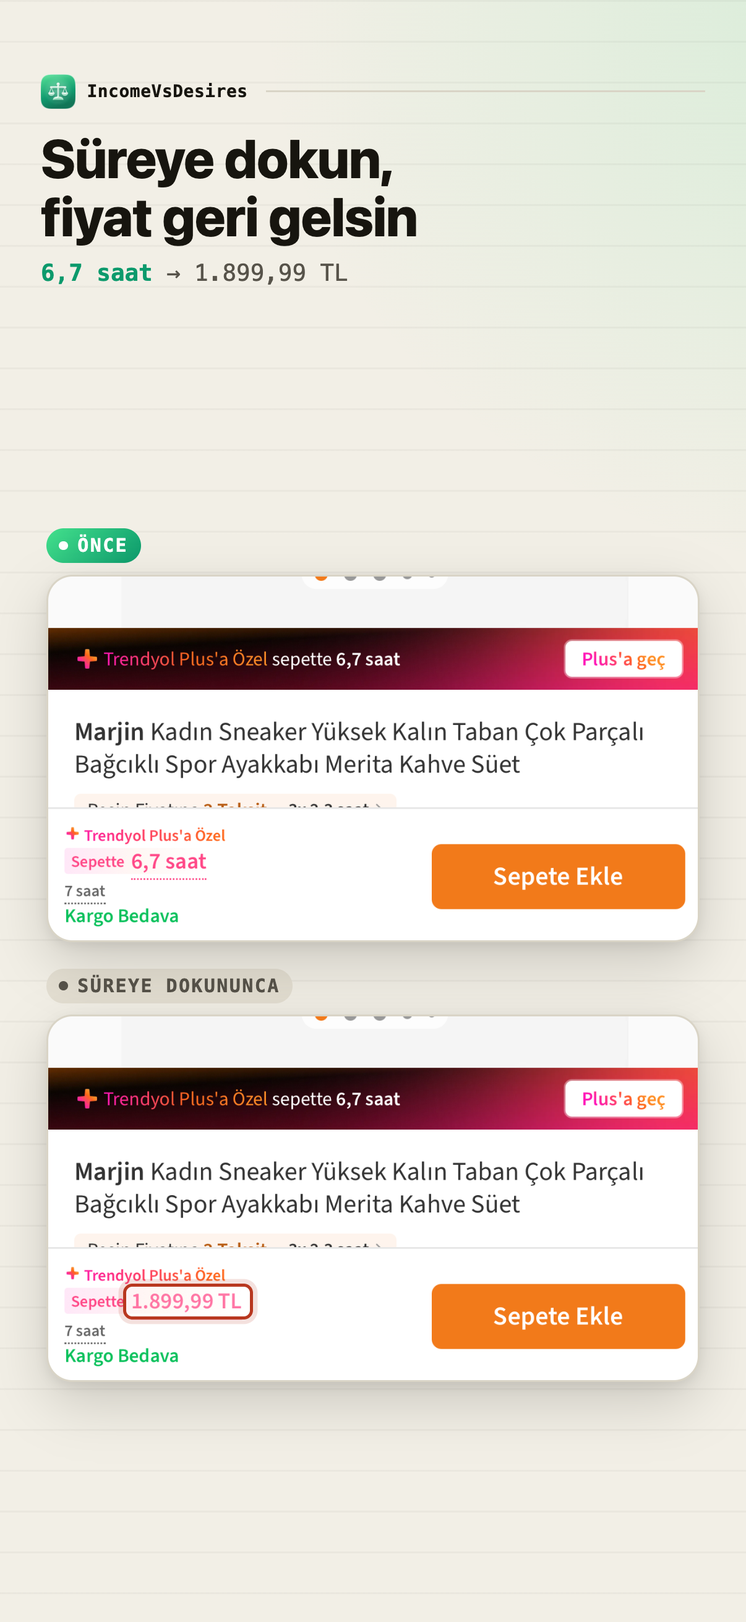
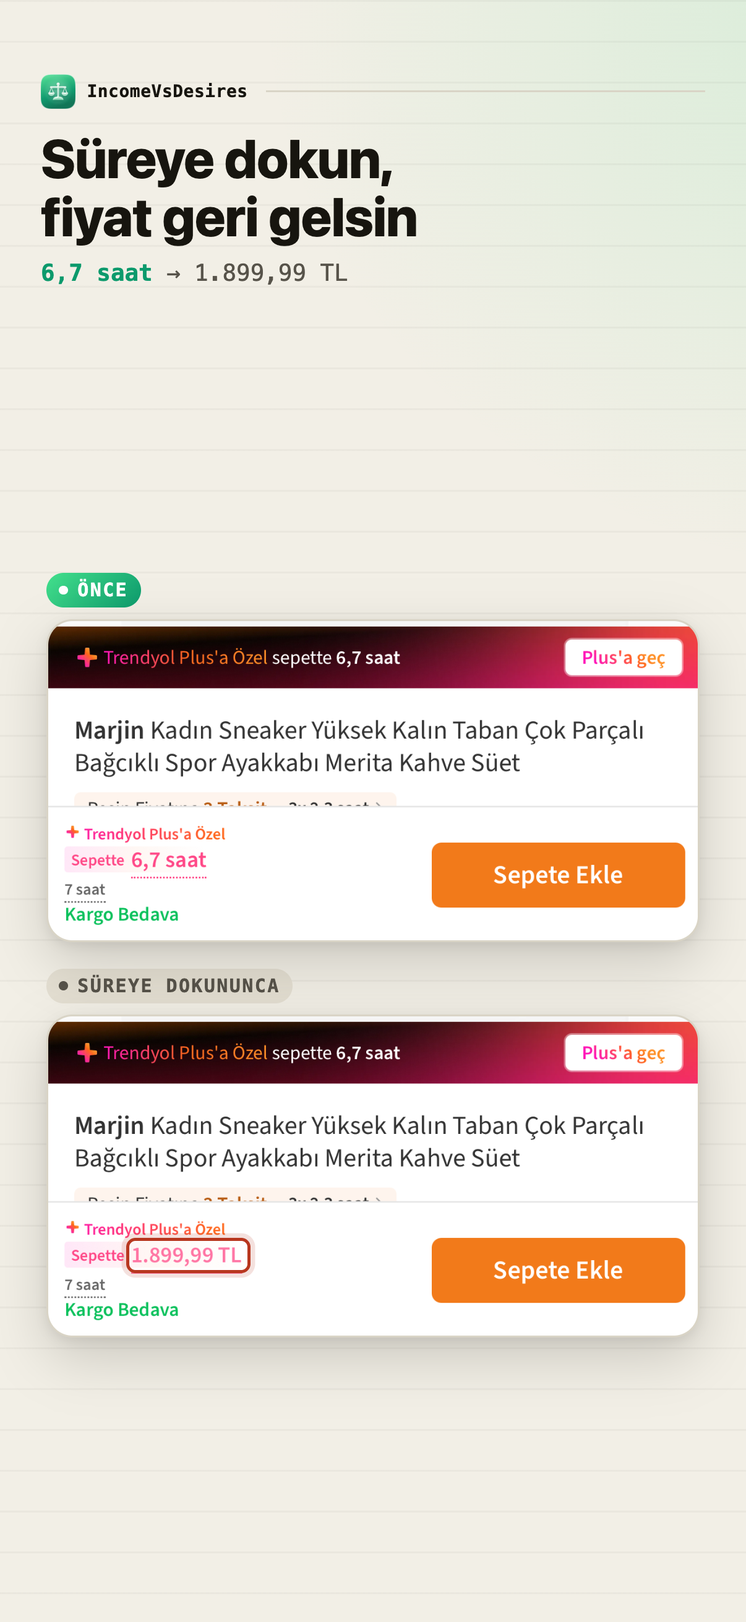
feat(store): App Store iPad TR/EN kareleri gerçek Safari'den; iPhone 03 TR kırpım ince ayar; ekran-goruntuleri.md + README §3 kaynak/kanıt tabloları

diff --git a/store/_src/screens/scenes.js b/store/_src/screens/scenes.js
@@ -111,7 +111,7 @@ const SAFC = {
     tr: {
       s1: [0, 600, 1206, 2022], s1W: 352,
       s2: [[30, 1100, 1150, 770]], s2W: 352,
-      s3: [0, 1650, 1206, 680], s3W: 352, s3mark: [138, 493, 240, 66],
+      s3: [0, 1735, 1206, 595], s3W: 352, s3mark: [144, 408, 230, 66],
       s4: [0, 190, 900, 2030], s4W: 270,
       s5: [0, 470, 1206, 1800], s5W: 300
     },
@@ -126,16 +126,16 @@ const SAFC = {
   ipad: {
     tr: {
       s1: [540, 655, 1424, 1530], s1W: 820,
-      s2: [[550, 655, 1410, 255], [540, 1700, 1424, 480]], s2W: 820,
-      s3: [540, 1500, 1424, 690], s3W: 904, s3mark: [10, 594, 160, 58],
-      s4: [880, 60, 660, 1340], s4W: 460,
+      s2: [[550, 655, 1410, 255], [540, 1700, 1424, 480]], s2W: 780,
+      s3: [540, 1500, 1424, 690], s3W: 904, s3mark: [12, 606, 150, 48],
+      s4: [914, 60, 614, 1340], s4W: 430,
       s5: [130, 535, 1800, 1465], s5W: 900
     },
     en: {
       s1: [570, 900, 1440, 1852], s1W: 760,
-      s2: [[560, 1300, 1460, 520], [560, 2540, 1460, 212]], s2W: 840,
-      s3: [560, 1300, 1460, 520], s3W: 904, s3mark: [486, 370, 90, 64],
-      s4: [880, 60, 660, 1340], s4W: 460,
+      s2: [[560, 1200, 1460, 620], [560, 2548, 1460, 204]], s2W: 780,
+      s3: [560, 1080, 1460, 740], s3W: 904, s3mark: [486, 590, 90, 64],
+      s4: [914, 60, 614, 1340], s4W: 430,
       s5: [130, 590, 1800, 1465], s5W: 900
     }
   }

diff --git a/store/app-store/shared/ekran-goruntuleri.md b/store/app-store/shared/ekran-goruntuleri.md
@@ -1,6 +1,6 @@
 # App Store ekran görüntüleri (TR birincil, EN yerelleştirme)
 
-Durum 28.10.2026 (ImageArtist). Boyutlar Apple "Screenshot specifications"
+Durum 29.10.2026 (ImageArtist). Boyutlar Apple "Screenshot specifications"
 (https://developer.apple.com/help/app-store-connect/reference/app-information/screenshot-specifications)
 ve PM'in 28.10 doğrulaması:
 
@@ -11,99 +11,143 @@ ve PM'in 28.10 doğrulaması:
 | iPad 13" | zorunlu (uygulama iPad'de çalışıyor) | **2064 × 2752**, 5 kare/dil |
 | Mac (16:10) | zorunlu | **2880 × 1800**, 5 kare/dil |
 
-Hepsi PNG, alfa yok (`sips -g hasAlpha` → `no`, Pillow modu `RGB`).
+Hepsi PNG, alfa yok (`sips -g hasAlpha` → `no`, Pillow modu `RGB`). Safari ham kareleri
+(simctl, RGBA) şablonda kırpılıp `store/_src/flatten.py` ile RGB'ye düzleştirildi.
 
 ## Kaynak ve dürüstlük — ÖNEMLİ
 
-**Kaynak: Chrome görüntü alanı, Safari'de gerçek çekim gelince değiştirilecek.**
-Tüm kareler `store/raw/<dil>/<cihaz>/` altındaki gerçek ham çekimlerin
-kırpımıdır (Google Chrome 156 headless, gerçek eklenti, gerçek site; iPhone/iPad
-için iOS Safari UA + dokunma emülasyonu — sitenin mobil düzeni Chrome'da çizildi).
-Ayrıntı: [`../../raw/README.md`](../../raw/README.md).
+| Set | Kaynak |
+|---|---|
+| iPhone TR + EN | **gerçek Safari (iOS 27 simülatör, iPhone 18 Pro)**, gerçek uzantı, gerçek site — `store/raw-safari/iphone/<dil>/` |
+| iPad TR + EN | **gerçek Safari (iOS 27 simülatör, iPad Pro 13" M5)**, gerçek uzantı, gerçek site — `store/raw-safari/ipad/<dil>/` |
+| Mac TR + EN | **Chrome kaynaklı, macOS Safari çekimi bekliyor** — `store/raw/<dil>/desktop/` (Chrome görüntü alanı; Chrome öğesi yok) |
 
-- Tarayıcı çerçevesi yok; ham karelerde zaten yoktu. Çerçeve **tarafsız cihaz
-  kenarı** (koyu yuvarlak köşe) ya da ince kart; "Safari" çerçevesi çizilmedi.
-- Rehber 2.3.10: hiçbir karede "Chrome" yazısı, Chrome arayüzü, Google logosu yok.
-- Rehber 2.3.7: fiyat/"ücretsiz" ifadesi yok. Görünen fiyatlar sitenin ürün
-  fiyatları (eklentinin çevirdiği/geri koyduğu değerler), uygulamanın fiyatı değil.
-- Rehber 2.3.9: site logoları kırpım dışında (Trendyol üst bandı, Marjin satıcı
-  logosu, IKEA başlığı görünmüyor). Ürün adlarında marka metni kalıyor (adidas,
-  Riccon, "IKEA Family price" etiketi) — küçük, ürün kartının parçası.
+Derleme (ayrıntı [`../../raw-safari/README.md`](../../raw-safari/README.md)):
+- `264072b` (28.10 21:04): iPhone TR 01–05, iPhone EN 01–03, iPad TR 01–05.
+- `9f9b9e8` (29.10 00:18, bulgu A/B düzeltmeli): iPhone EN 04–05, iPad EN 01–05.
+- TR karelerde hata A görünmez (₺). A düzeltmesinden önceki EN popup kareleri
+  (`$227.278.41`, `raw-safari/_kanit/*-hata-A-*`) **kullanılmadı**; `_kanit/` altındaki
+  hiçbir dosya mağaza karesi değildir.
+
+Kurallar:
+- Her kare = başlık bandı + aynı ham karenin kırpımı (yakınlaştırma ≤ 1,5×). Arayüz
+  çizilmedi, rakam üretilmedi, rötuş yok. Kırpımlar `store/_src/screens/scenes.js`
+  (`SAFC`, ham piksel).
+- Apple kendi platformu olduğu için Safari öğeleri (iPhone alttaki adres çubuğu,
+  iPad adres çubuğu + uzantı popover'ı) yer yer görünür; odak eklentidir.
+- Rehber 2.3.10: hiçbir karede "Chrome" yazısı/arayüzü yok (Apple seti Safari'den).
+- Rehber 2.3.7: fiyat/"ücretsiz" ifadesi yok. Görünen fiyatlar sitenin ürün fiyatları.
+- Rehber 2.3.9: site logoları kırpım dışında — Trendyol ve Zappos üst bandı, Marjin
+  satıcı afişi/logosu, iPad sekme çubuğu (site favicon'ları, "Zappos" sekme başlığı),
+  iPad durum çubuğundaki "◀ Ayarlar" dönüş bağlantısı. Kalan: adres çubuğundaki alan
+  adı (`trendyol.com`, `zappos.com`, düz metin), ürün adlarındaki marka metni
+  (adidas, Nike, SKECHERS…) ve ürün fotoğrafındaki marka işaretleri — ürün kartının parçası.
 - Rehber 2.3.3: her kare eklentiyi kullanımda gösteriyor (açılış ekranı yok).
-- Örnek maaş gerçek kişi verisi değil: TR 50.000 TL · 8 saat · 22 gün; EN
-  $5,000 · 8 h · 22 days. Başlıklardaki her rakam ham karenin `meta.json`
-  çiplerinden okundu.
-- Ayar paneli (04): `raw/<dil>/iphone/04-ayar-paneli.png` — gerçek `popup.html`,
-  gerçek popup genişliği (300 CSS px) @3x; Mac ve iPad'de de bu kare (daha keskin).
-- Yakınlaştırma: iPad TR 01'de aynı ham karenin çip bölgeleri yeşil kenarlı kartla
-  büyütüldü; 02/03'te yalnız çip bölgeleri kırpıldı (PM notu: iPad'de çipler küçük).
-  Kırmızı çerçeve (03) tıklanan çipi işaretler; arayüze ait değildir.
+- Örnek maaş gerçek kişi verisi değil: TR 50.000 TL · 8 saat · 22 gün (₺284,09/sa);
+  EN $5,000 · 8 h · 22 days ($28.41/sa). Gider: Kira 18.000 TRY / Rent $1,500.
+- Başlıklardaki her rakam ilgili ham karede görüldü; kanıt satırları aşağıda.
+- "Bir daha dokun, yine süre" alt yazısı Apple setinden **çıkarıldı**: Zappos'ta fiyat
+  modundaki çipe 2. dokunuş ürün sayfasına gidiyor (bulgu H, `9f9b9e8`).
+- Kırmızı çerçeve (03) dokunulan çipi işaretler; arayüze ait değildir.
 - Dokunmatik cihazlarda başlık "dokun / tap", Mac'te "tıkla / click".
 
-Yeniden üretme: `bash store/_src/render.sh mac|iphone|ipad` (şablon
-`store/_src/screens/`, kırpımlar `scenes.js`).
+Yeniden üretme: `bash store/_src/render.sh iphone|ipad|mac` (şablon `store/_src/screens/`).
 
-Eski host app açılış kareleri (yalnız açılış ekranı, Rehber 2.3.3'ü
-karşılamıyordu) `store/arsiv/apple-hostapp-acilis/` altına taşındı.
+Arşiv: Chrome kaynaklı eski iPhone/iPad kareleri
+`store/arsiv/apple-chrome-kaynakli-2026-10-28/{tr,en}/{iphone,ipad}/` (`git mv`);
+eski host app açılış kareleri `store/arsiv/apple-hostapp-acilis/`.
+
+## Başlık rakamlarının kanıtı
+
+| Set | Başlık rakamı | Görüldüğü ham kare |
+|---|---|---|
+| TR iPhone 01 | 50.000 TL · 8 saat · 22 gün | `raw-safari/iphone/tr/04-popup.png` |
+| TR iPhone 01 | 8.149 TL → 3,6 gün | `02-eklenti-kapali.png` (adidas, 8.149 TL) → `01-eklenti-acik.png` (3,6 gün) |
+| TR iPhone 02 | 711,56 TL → 2,5 saat · 690,21 TL → 2,4 saat | `02` (pasyone 711,56 TL; Plus ile 690,21 TL) → `01` (2,5 saat; Plus ile 2,4 saat) |
+| TR iPhone 03 | 6,7 saat → 1.899,99 TL | `03a-cip-dokunmadan-once.png` (Sepette 6,7 saat) → `03-cipe-dokunuldu.png` (Sepette 1.899,99 TL) |
+| TR iPhone 04 | ₺284,09 · ₺2.272,73 | `04-popup.png` |
+| TR iPhone 05 | Kira 7,9 gün · sana kalan 14 gün · 22 gün | `05-giderler-halka.png` |
+| TR iPad 01 | 50.000 TL · 8 · 22 | `raw-safari/ipad/tr/04-popup.png` |
+| TR iPad 01 | 921,89 TL → 3,2 saat | `02` (Dark Seer 921,89 TL) → `01` (3,2 saat) |
+| TR iPad 02 | 1.899,99 TL → 6,7 saat · 1.197,82 TL → 4,2 saat | `02` (Marjin ×3 1.899,99 TL; McDark 1.197,82 TL) → `01` (6,7 saat; 4,2 saat) |
+| TR iPad 03 | 3,2 saat → 921,89 TL | `03a` → `03` (Dark Seer, listede) |
+| TR iPad 04 | ₺284,09 · ₺2.272,73 | `04-popup.png` (popover) |
+| TR iPad 05 | 7,9 gün · 14 gün · 22 gün | `05-giderler-halka.png` |
+| EN iPhone 01 | $5,000 · 8 h · 22 days | `raw-safari/iphone/en/04-popup.png` |
+| EN iPhone 01 | $159.99 → 5.6 hours | `02` (ECCO $159.99) → `01` (5.6 hours) |
+| EN iPhone 02 | $105 → 3.7 hours · $65 → 2.3 hours | `02` (Nike $105, SKECHERS $65) → `01` (3.7 / 2.3 hours) |
+| EN iPhone 03 | 2.3 hours → $65 | `03a` → `03` (SKECHERS Go Run Consistent 3, listede) |
+| EN iPhone 04 | $28.41 · $227.27 | `04-popup.png` (`9f9b9e8`, hata A yok) |
+| EN iPhone 05 | Rent 6.6 days · left for you 15 days · 22-day | `05-giderler-halka.png` (`9f9b9e8`) |
+| EN iPad 01 | $5,000 · 8 · 22 | `raw-safari/ipad/en/04-popup.png` |
+| EN iPad 01 | $159.99 → 5.6 hours | `02` (ECCO Soft 7 $159.99) → `01` (5.6 hours) |
+| EN iPad 02 | $105 → 3.7 hours · $130 → 4.6 hours | `02` (Nike $105, L.L.Bean $130) → `01` (3.7 / 4.6 hours) |
+| EN iPad 03 | 2.3 hours → $65 | `03a` → `03` (SKECHERS Core Track, 1. dokunuş) |
+| EN iPad 04 | $28.41 · $227.27 | `04-popup.png` (popover, `9f9b9e8`) |
+| EN iPad 05 | 6.6 days · 15 days · 22 days | `05-giderler-halka.png` (`9f9b9e8`) |
+
+Sağlama (README): TR 8.149/284,09/8 = 3,59 gün; 711,56/284,09 = 2,50; 921,89/284,09 = 3,25;
+1.197,82/284,09 = 4,22; 1.899,99/284,09 = 6,69. EN 105/28,41 = 3,70; 65/28,41 = 2,29;
+159,99/28,41 = 5,63; 130/28,41 = 4,58.
 
 ## Dosyalar
 
 #### TR · iphone
 
-| Dosya | Piksel · alfa | Ham kaynak | Not |
+| Dosya | Piksel · alfa | Ham kaynak | Kaynak |
 |---|---|---|---|
-| `tr/iphone/01-sayfada-sureler.png` | 1206×2622 · alfa yok | `raw/tr/iphone/01-eklenti-acik.png` | kaynak: Chrome görüntü alanı, Safari'de gerçek çekim gelince değiştirilecek |
-| `tr/iphone/02-oncesi-sonrasi.png` | 1206×2622 · alfa yok | `raw/tr/iphone/02-eklenti-kapali.png` + `raw/tr/iphone/01-eklenti-acik.png` | kaynak: Chrome görüntü alanı, Safari'de gerçek çekim gelince değiştirilecek |
-| `tr/iphone/03-dokun-fiyat-geri.png` | 1206×2622 · alfa yok | `raw/tr/iphone/01-eklenti-acik.png` + `raw/tr/iphone/03-cipe-tiklandi.png` | kaynak: Chrome görüntü alanı, Safari'de gerçek çekim gelince değiştirilecek |
-| `tr/iphone/04-ayar-paneli.png` | 1206×2622 · alfa yok | `raw/tr/iphone/04-ayar-paneli.png` | kaynak: Chrome görüntü alanı, Safari'de gerçek çekim gelince değiştirilecek |
-| `tr/iphone/05-giderler-halka.png` | 1206×2622 · alfa yok | `raw/tr/iphone/05-giderler-halka.png` | kaynak: Chrome görüntü alanı, Safari'de gerçek çekim gelince değiştirilecek |
+| `tr/iphone/01-sayfada-sureler.png` | 1206×2622 · alfa yok | `raw-safari/iphone/tr/01-eklenti-acik.png` | gerçek Safari (iOS 27 simülatör), derleme `264072b` |
+| `tr/iphone/02-oncesi-sonrasi.png` | 1206×2622 · alfa yok | `raw-safari/iphone/tr/02-eklenti-kapali.png` + `…/01-eklenti-acik.png` | gerçek Safari (iOS 27 simülatör), derleme `264072b` |
+| `tr/iphone/03-dokun-fiyat-geri.png` | 1206×2622 · alfa yok | `raw-safari/iphone/tr/03a-cip-dokunmadan-once.png` + `…/03-cipe-dokunuldu.png` | gerçek Safari (iOS 27 simülatör), derleme `264072b` (ürün sayfası) |
+| `tr/iphone/04-ayar-paneli.png` | 1206×2622 · alfa yok | `raw-safari/iphone/tr/04-popup.png` | gerçek Safari (iOS 27 simülatör), derleme `264072b` |
+| `tr/iphone/05-giderler-halka.png` | 1206×2622 · alfa yok | `raw-safari/iphone/tr/05-giderler-halka.png` | gerçek Safari (iOS 27 simülatör), derleme `264072b` |
 
 #### TR · ipad
 
-| Dosya | Piksel · alfa | Ham kaynak | Not |
+| Dosya | Piksel · alfa | Ham kaynak | Kaynak |
 |---|---|---|---|
-| `tr/ipad/01-sayfada-sureler.png` | 2064×2752 · alfa yok | `raw/tr/ipad/01-eklenti-acik.png` | kaynak: Chrome görüntü alanı, Safari'de gerçek çekim gelince değiştirilecek |
-| `tr/ipad/02-oncesi-sonrasi.png` | 2064×2752 · alfa yok | `raw/tr/ipad/02-eklenti-kapali.png` + `raw/tr/ipad/01-eklenti-acik.png` | kaynak: Chrome görüntü alanı, Safari'de gerçek çekim gelince değiştirilecek |
-| `tr/ipad/03-dokun-fiyat-geri.png` | 2064×2752 · alfa yok | `raw/tr/ipad/01-eklenti-acik.png` + `raw/tr/ipad/03-cipe-tiklandi.png` | kaynak: Chrome görüntü alanı, Safari'de gerçek çekim gelince değiştirilecek |
-| `tr/ipad/04-ayar-paneli.png` | 2064×2752 · alfa yok | `raw/tr/iphone/04-ayar-paneli.png` | kaynak: Chrome görüntü alanı, Safari'de gerçek çekim gelince değiştirilecek |
-| `tr/ipad/05-giderler-halka.png` | 2064×2752 · alfa yok | `raw/tr/ipad/05-giderler-halka.png` | kaynak: Chrome görüntü alanı, Safari'de gerçek çekim gelince değiştirilecek |
+| `tr/ipad/01-sayfada-sureler.png` | 2064×2752 · alfa yok | `raw-safari/ipad/tr/01-eklenti-acik.png` | gerçek Safari (iOS 27 simülatör), derleme `264072b` |
+| `tr/ipad/02-oncesi-sonrasi.png` | 2064×2752 · alfa yok | `raw-safari/ipad/tr/02-eklenti-kapali.png` + `…/01-eklenti-acik.png` | gerçek Safari (iOS 27 simülatör), derleme `264072b` |
+| `tr/ipad/03-dokun-fiyat-geri.png` | 2064×2752 · alfa yok | `raw-safari/ipad/tr/03a-cip-dokunmadan-once.png` + `…/03-cipe-dokunuldu.png` | gerçek Safari (iOS 27 simülatör), derleme `264072b` |
+| `tr/ipad/04-ayar-paneli.png` | 2064×2752 · alfa yok | `raw-safari/ipad/tr/04-popup.png` | gerçek Safari (iOS 27 simülatör), derleme `264072b` |
+| `tr/ipad/05-giderler-halka.png` | 2064×2752 · alfa yok | `raw-safari/ipad/tr/05-giderler-halka.png` | gerçek Safari (iOS 27 simülatör), derleme `264072b` |
 
 #### TR · mac
 
-| Dosya | Piksel · alfa | Ham kaynak | Not |
+| Dosya | Piksel · alfa | Ham kaynak | Kaynak |
 |---|---|---|---|
-| `tr/mac/01-sayfada-sureler.png` | 2880×1800 · alfa yok | `raw/tr/desktop/01-eklenti-acik.png` | kaynak: Chrome görüntü alanı, Safari'de gerçek çekim gelince değiştirilecek |
-| `tr/mac/02-oncesi-sonrasi.png` | 2880×1800 · alfa yok | `raw/tr/desktop/02-eklenti-kapali.png` + `raw/tr/desktop/01-eklenti-acik.png` | kaynak: Chrome görüntü alanı, Safari'de gerçek çekim gelince değiştirilecek |
-| `tr/mac/03-tikla-fiyat-geri.png` | 2880×1800 · alfa yok | `raw/tr/desktop/01-eklenti-acik.png` + `raw/tr/desktop/03-cipe-tiklandi.png` | kaynak: Chrome görüntü alanı, Safari'de gerçek çekim gelince değiştirilecek |
-| `tr/mac/04-ayar-paneli.png` | 2880×1800 · alfa yok | `raw/tr/iphone/04-ayar-paneli.png` | kaynak: Chrome görüntü alanı, Safari'de gerçek çekim gelince değiştirilecek |
-| `tr/mac/05-giderler-halka.png` | 2880×1800 · alfa yok | `raw/tr/desktop/05-giderler-halka.png` | kaynak: Chrome görüntü alanı, Safari'de gerçek çekim gelince değiştirilecek |
+| `tr/mac/01-sayfada-sureler.png` | 2880×1800 · alfa yok | `raw/tr/desktop/01-eklenti-acik.png` | Chrome kaynaklı, macOS Safari çekimi bekliyor |
+| `tr/mac/02-oncesi-sonrasi.png` | 2880×1800 · alfa yok | `raw/tr/desktop/02-eklenti-kapali.png` + `raw/tr/desktop/01-eklenti-acik.png` | Chrome kaynaklı, macOS Safari çekimi bekliyor |
+| `tr/mac/03-tikla-fiyat-geri.png` | 2880×1800 · alfa yok | `raw/tr/desktop/01-eklenti-acik.png` + `raw/tr/desktop/03-cipe-tiklandi.png` | Chrome kaynaklı, macOS Safari çekimi bekliyor |
+| `tr/mac/04-ayar-paneli.png` | 2880×1800 · alfa yok | `raw/tr/iphone/04-ayar-paneli.png` | Chrome kaynaklı, macOS Safari çekimi bekliyor |
+| `tr/mac/05-giderler-halka.png` | 2880×1800 · alfa yok | `raw/tr/desktop/05-giderler-halka.png` | Chrome kaynaklı, macOS Safari çekimi bekliyor |
 
 #### EN · iphone
 
-| Dosya | Piksel · alfa | Ham kaynak | Not |
+| Dosya | Piksel · alfa | Ham kaynak | Kaynak |
 |---|---|---|---|
-| `en/iphone/01-hours-on-page.png` | 1206×2622 · alfa yok | `raw/en/iphone/01-eklenti-acik.png` | kaynak: Chrome görüntü alanı, Safari'de gerçek çekim gelince değiştirilecek |
-| `en/iphone/02-before-after.png` | 1206×2622 · alfa yok | `raw/en/iphone/02-eklenti-kapali.png` + `raw/en/iphone/01-eklenti-acik.png` | kaynak: Chrome görüntü alanı, Safari'de gerçek çekim gelince değiştirilecek |
-| `en/iphone/03-tap-for-price.png` | 1206×2622 · alfa yok | `raw/en/iphone/01-eklenti-acik.png` + `raw/en/iphone/03-cipe-tiklandi.png` | kaynak: Chrome görüntü alanı, Safari'de gerçek çekim gelince değiştirilecek |
-| `en/iphone/04-settings-panel.png` | 1206×2622 · alfa yok | `raw/en/iphone/04-ayar-paneli.png` | kaynak: Chrome görüntü alanı, Safari'de gerçek çekim gelince değiştirilecek |
-| `en/iphone/05-expenses-donut.png` | 1206×2622 · alfa yok | `raw/en/iphone/05-giderler-halka.png` | kaynak: Chrome görüntü alanı, Safari'de gerçek çekim gelince değiştirilecek |
+| `en/iphone/01-hours-on-page.png` | 1206×2622 · alfa yok | `raw-safari/iphone/en/01-eklenti-acik.png` | gerçek Safari (iOS 27 simülatör), derleme `264072b` |
+| `en/iphone/02-before-after.png` | 1206×2622 · alfa yok | `raw-safari/iphone/en/02-eklenti-kapali.png` + `…/01-eklenti-acik.png` | gerçek Safari (iOS 27 simülatör), derleme `264072b` |
+| `en/iphone/03-tap-for-price.png` | 1206×2622 · alfa yok | `raw-safari/iphone/en/03a-cip-dokunmadan-once.png` + `…/03-cipe-dokunuldu.png` | gerçek Safari (iOS 27 simülatör), derleme `264072b` |
+| `en/iphone/04-settings-panel.png` | 1206×2622 · alfa yok | `raw-safari/iphone/en/04-popup.png` | gerçek Safari (iOS 27 simülatör), derleme `9f9b9e8` |
+| `en/iphone/05-expenses-donut.png` | 1206×2622 · alfa yok | `raw-safari/iphone/en/05-giderler-halka.png` | gerçek Safari (iOS 27 simülatör), derleme `9f9b9e8` |
 
 #### EN · ipad
 
-| Dosya | Piksel · alfa | Ham kaynak | Not |
+| Dosya | Piksel · alfa | Ham kaynak | Kaynak |
 |---|---|---|---|
-| `en/ipad/01-hours-on-page.png` | 2064×2752 · alfa yok | `raw/en/ipad/01-eklenti-acik.png` | kaynak: Chrome görüntü alanı, Safari'de gerçek çekim gelince değiştirilecek |
-| `en/ipad/02-before-after.png` | 2064×2752 · alfa yok | `raw/en/ipad/02-eklenti-kapali.png` + `raw/en/ipad/01-eklenti-acik.png` | kaynak: Chrome görüntü alanı, Safari'de gerçek çekim gelince değiştirilecek |
-| `en/ipad/03-tap-for-price.png` | 2064×2752 · alfa yok | `raw/en/ipad/01-eklenti-acik.png` + `raw/en/ipad/03-cipe-tiklandi.png` | kaynak: Chrome görüntü alanı, Safari'de gerçek çekim gelince değiştirilecek |
-| `en/ipad/04-settings-panel.png` | 2064×2752 · alfa yok | `raw/en/iphone/04-ayar-paneli.png` | kaynak: Chrome görüntü alanı, Safari'de gerçek çekim gelince değiştirilecek |
-| `en/ipad/05-expenses-donut.png` | 2064×2752 · alfa yok | `raw/en/ipad/05-giderler-halka.png` | kaynak: Chrome görüntü alanı, Safari'de gerçek çekim gelince değiştirilecek |
+| `en/ipad/01-hours-on-page.png` | 2064×2752 · alfa yok | `raw-safari/ipad/en/01-eklenti-acik.png` | gerçek Safari (iOS 27 simülatör), derleme `9f9b9e8` |
+| `en/ipad/02-before-after.png` | 2064×2752 · alfa yok | `raw-safari/ipad/en/02-eklenti-kapali.png` + `…/01-eklenti-acik.png` | gerçek Safari (iOS 27 simülatör), derleme `9f9b9e8` |
+| `en/ipad/03-tap-for-price.png` | 2064×2752 · alfa yok | `raw-safari/ipad/en/03a-cip-dokunmadan-once.png` + `…/03-cipe-dokunuldu.png` | gerçek Safari (iOS 27 simülatör), derleme `9f9b9e8` |
+| `en/ipad/04-settings-panel.png` | 2064×2752 · alfa yok | `raw-safari/ipad/en/04-popup.png` | gerçek Safari (iOS 27 simülatör), derleme `9f9b9e8` |
+| `en/ipad/05-expenses-donut.png` | 2064×2752 · alfa yok | `raw-safari/ipad/en/05-giderler-halka.png` | gerçek Safari (iOS 27 simülatör), derleme `9f9b9e8` |
 
 #### EN · mac
 
-| Dosya | Piksel · alfa | Ham kaynak | Not |
+| Dosya | Piksel · alfa | Ham kaynak | Kaynak |
 |---|---|---|---|
-| `en/mac/01-hours-on-page.png` | 2880×1800 · alfa yok | `raw/en/desktop/01-eklenti-acik.png` | kaynak: Chrome görüntü alanı, Safari'de gerçek çekim gelince değiştirilecek |
-| `en/mac/02-before-after.png` | 2880×1800 · alfa yok | `raw/en/desktop/02-eklenti-kapali.png` + `raw/en/desktop/01-eklenti-acik.png` | kaynak: Chrome görüntü alanı, Safari'de gerçek çekim gelince değiştirilecek |
-| `en/mac/03-click-for-price.png` | 2880×1800 · alfa yok | `raw/en/desktop/01-eklenti-acik.png` + `raw/en/desktop/03-cipe-tiklandi.png` | kaynak: Chrome görüntü alanı, Safari'de gerçek çekim gelince değiştirilecek |
-| `en/mac/04-settings-panel.png` | 2880×1800 · alfa yok | `raw/en/iphone/04-ayar-paneli.png` | kaynak: Chrome görüntü alanı, Safari'de gerçek çekim gelince değiştirilecek |
-| `en/mac/05-expenses-donut.png` | 2880×1800 · alfa yok | `raw/en/desktop/05-giderler-halka.png` | kaynak: Chrome görüntü alanı, Safari'de gerçek çekim gelince değiştirilecek |
+| `en/mac/01-hours-on-page.png` | 2880×1800 · alfa yok | `raw/en/desktop/01-eklenti-acik.png` | Chrome kaynaklı, macOS Safari çekimi bekliyor |
+| `en/mac/02-before-after.png` | 2880×1800 · alfa yok | `raw/en/desktop/02-eklenti-kapali.png` + `raw/en/desktop/01-eklenti-acik.png` | Chrome kaynaklı, macOS Safari çekimi bekliyor |
+| `en/mac/03-click-for-price.png` | 2880×1800 · alfa yok | `raw/en/desktop/01-eklenti-acik.png` + `raw/en/desktop/03-cipe-tiklandi.png` | Chrome kaynaklı, macOS Safari çekimi bekliyor |
+| `en/mac/04-settings-panel.png` | 2880×1800 · alfa yok | `raw/en/iphone/04-ayar-paneli.png` | Chrome kaynaklı, macOS Safari çekimi bekliyor |
+| `en/mac/05-expenses-donut.png` | 2880×1800 · alfa yok | `raw/en/desktop/05-giderler-halka.png` | Chrome kaynaklı, macOS Safari çekimi bekliyor |

diff --git a/store/README.md b/store/README.md
@@ -85,7 +85,7 @@ tüm boyutları üretir. Önizleme: [`shared/ikon-onizleme.png`](shared/ikon-oni
 | `LargeIcon.imageset`, `Resources/Icon.png` (host app penceresi) | **eksik** — eski render; bu görevin yazma alanı dışında |
 | Play / Android / Windows | kapsam dışı (bu ürün için mağaza yok) |
 
-## 3. Mağaza görselleri — hazır (Apple seti Chrome kaynaklı, Safari çekimi bekliyor)
+## 3. Mağaza görselleri — hazır (iPhone/iPad gerçek Safari; Mac Chrome kaynaklı, macOS Safari çekimi bekliyor)
 
 Şablon `store/_src/` (tek komut: `bash store/_src/render.sh`); kontak föyleri
 [`shared/kontak-foyu-tr.jpg`](shared/kontak-foyu-tr.jpg) · [`shared/kontak-foyu-en.jpg`](shared/kontak-foyu-en.jpg).
@@ -95,12 +95,13 @@ tüm boyutları üretir. Önizleme: [`shared/ikon-onizleme.png`](shared/ikon-oni
 | Ham kareler TR + EN, 6 sahne × 3 cihaz (36 PNG) | **hazır** — [`raw/README.md`](raw/README.md) |
 | CWS ekran görüntüleri TR + EN, 5 × 1280×800 | **hazır** — `chrome-web-store/{tr,en}/screenshots/0*.png`; liste [`gorseller.md`](chrome-web-store/shared/gorseller.md) |
 | CWS 440×280, 1400×560 | **hazır** — dilden bağımsız `*-dilsiz.png` **önerilen**; eski TR metinli sürümler yerinde (yüklenmeyecek) |
-| App Store iPhone 1206×2622, iPad 2064×2752, Mac 2880×1800 — TR + EN, 5'er | **hazır (geçici)** — `app-store/{tr,en}/{iphone,ipad,mac}/`; kaynak Chrome görüntü alanı, Chrome öğesi yok; Safari'de gerçek çekim gelince değiştirilecek — [`ekran-goruntuleri.md`](app-store/shared/ekran-goruntuleri.md) |
+| App Store iPhone 1206×2622, iPad 2064×2752 — TR + EN, 5'er | **hazır (29.10)** — `app-store/{tr,en}/{iphone,ipad}/`; kaynak **gerçek Safari (iOS 27 simülatör)** `raw-safari/`, derleme `264072b` / `9f9b9e8` (EN 04–05 ve iPad EN düzeltmeli; hata A'lı kareler kullanılmadı); PNG RGB, alfa yok — [`ekran-goruntuleri.md`](app-store/shared/ekran-goruntuleri.md) |
+| App Store Mac 2880×1800 — TR + EN, 5'er | **hazır (geçici)** — `app-store/{tr,en}/mac/`; Chrome kaynaklı (Chrome öğesi yok), macOS Safari çekimi bekliyor |
 | Safari'de gerçek çekim — iPhone (simülatör) | **gerçek Safari kaynağı hazır** — TR 01…05 + `kayit.mov`, EN 01…05 + `kayit.mov` ([`raw-safari/README.md`](raw-safari/README.md)); EN 04/05/kayıt düzeltmeli derlemeyle (hata A yok); TR 03 ürün sayfasında (eski derlemede listede bulgu B) |
 | Safari'de gerçek çekim — iPad | **gerçek Safari kaynağı hazır** — iPad Pro 13" sim TR 01…05 + `kayit.mov` (38 sn), EN 01…05 (düzeltmeli derleme); **EN kayıt eksik** (kayıtta bulgu H) |
 | Safari'de gerçek çekim — Mac | **eksik** — gerçek Safari kaynağı yok (masaüstü girdisi onay ister; yalnız izin-yok kanıtı `raw-safari/_kanit/mac-*`) |
-| Safari ham kare alfa | simctl PNG'leri `hasAlpha: yes` (opak) — App Store'a girmeden düzleştirilmeli |
-| Eski kareler | `arsiv/chrome-tr-eski-2026-10-28/` (eski CWS TR), `arsiv/apple-hostapp-acilis/` (host app açılışı) |
+| Safari ham kare alfa | simctl PNG'leri `hasAlpha: yes` (opak) — mağaza karelerinde düzleştirildi (`flatten.py`, `hasAlpha: no`); ham kareler olduğu gibi |
+| Eski kareler | `arsiv/chrome-tr-eski-2026-10-28/` (eski CWS TR), `arsiv/apple-hostapp-acilis/` (host app açılışı), `arsiv/apple-chrome-kaynakli-2026-10-28/` (Chrome kaynaklı eski iPhone/iPad) |
 
 ## 4. Tanıtım videosu — eksik
 
